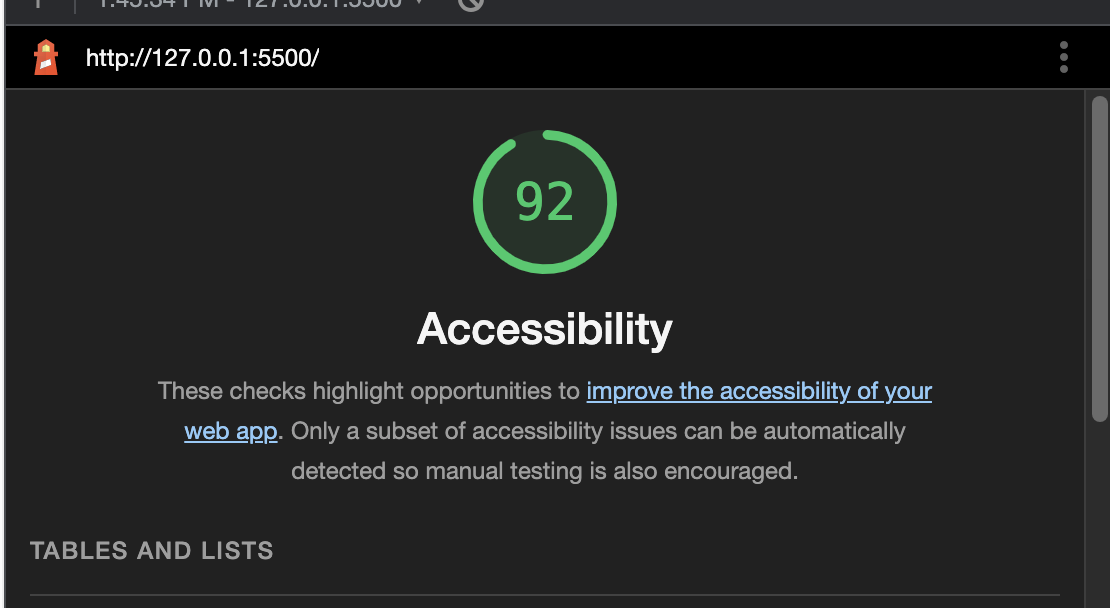
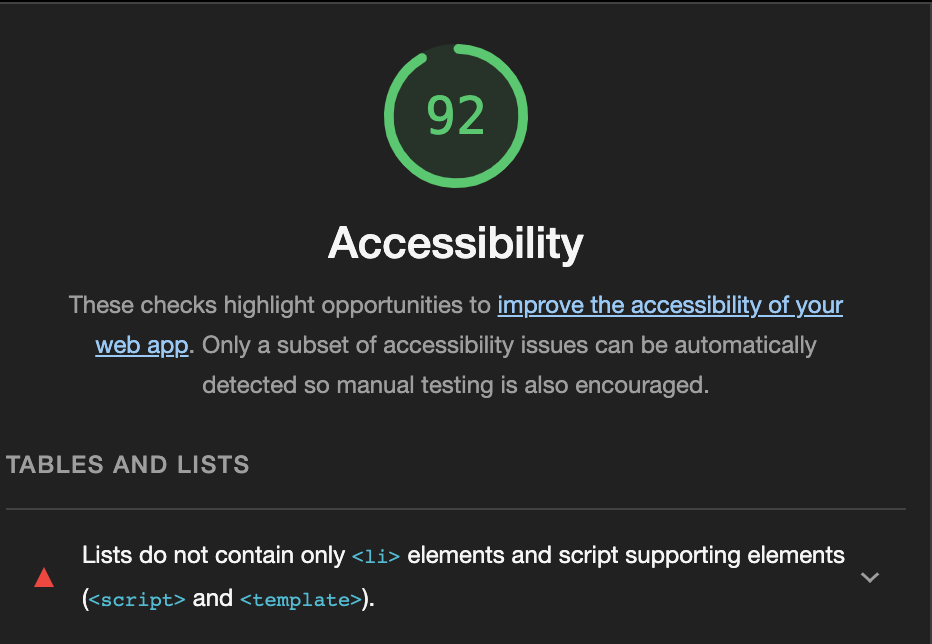
Completed lab 3

Changed region(s): [[0.0, 0.0, 1.0, 1.0]]

diff --git a/js/app.js b/js/app.js
@@ -1,5 +1,7 @@
 'use strict';
 
+let score=0;
+
 let username = prompt('What is your name?');
 console.log('name is' + username);
 alert('Hello,' + username);
@@ -8,6 +10,7 @@ let q1 = prompt('Do I live in Hawaii?').toLowerCase();
 if (q1 === 'yes' || q1 === 'y'){
   //console.log('q1 correct');
   alert("You're correct!");
+  score++;
 } else if (q1 === 'no' || q1 === 'n'){
   //console.log('q1 incorrect');
   alert('Sorry, you\'re incorrect');
@@ -17,6 +20,7 @@ let q2 = prompt('Do I like pizza?').toLowerCase();
 if (q2 === 'yes' || q2 === 'y'){
   //console.log('q2 correct');
   alert("You're correct!");
+  score++;
 } else if (q2 === 'no' || q2 === 'n'){
   //console.log('q2 incorrect');
   alert('Sorry, you\'re incorrect');
@@ -26,6 +30,7 @@ let q3 = prompt('Do I like running?').toLowerCase();
 if (q3 === 'no' || q3 === 'n'){
   //console.log('q3 correct');
   alert("You're correct!");
+  score++;
 } else if (q3 === 'yes' || q3 === 'y'){
   //console.log('q3 incorrect');
   alert('Sorry, you\'re incorrect');
@@ -35,18 +40,59 @@ let q4 = prompt('Am I 32 years old?').toLowerCase();
 if (q4 === 'yes' || q4 === 'y'){
   //console.log('q4 correct');
   alert("You're correct!");
-} else if (q4 === 'no' || q4 === 'n'){
+  score++;
+} else if (q4 === 'no' || q4 === 'n') {
   //console.log('q4 incorrect');
   alert('Sorry, you\'re incorrect');
 }
 
 let q5 = prompt('Do I play guitar?').toLowerCase();
-if (q5 === 'yes' || q5 === 'y'){
+if (q5 === 'yes' || q5 === 'y') {
   //console.log('q5 correct');
   alert("You're correct!");
-} else if (q5 === 'no' || q5 === 'n'){
+  score++;
+} else if (q5 === 'no' || q5 === 'n') {
   //console.log('q5 incorrect');
   alert('Sorry, you\'re incorrect');
 }
 
-alert("Thank you for your answers, " + username);
+for (let i = 0; i < 4; i++) {
+  let q6 = prompt('Guess a number that I am thinking of. You have four tries.');
+  let q6num = parseInt(q6);
+  if (q6num < 5) {
+    alert("Too low");
+  } else if (q6num > 5) {
+    alert("Too high");
+  } else {
+    alert("Correct!");
+    score++;
+    break;
+
+  }
+}
+
+alert('The correct answer is 5.');
+
+let brands = ['gibson', 'mcpherson', 'fender', 'd\'angelico', 'duesenburg', 'abasi', 'taylor', 'martin', 'g&l', 'carvin'];
+
+for (let i = 0; i < 6; i++) {
+  let q7 = prompt('Name one of my favorite guitar brands, you have 6 tries.').toLowerCase();
+
+  for (let i = 0; i < brands.length; i++){
+    if(brands[i] === q7){
+      q7 = true;
+    }else{
+      q7 = false;
+    }
+  }
+  if (q7 === true) {
+    alert("This is correct.");
+    score++;
+    break;
+  } else {
+    alert("wrong.");
+  }
+}
+
+alert("Thank you for your answers, " + username + ". Your score is " + score + " out of 7.");
+

diff --git a/index.html b/index.html
@@ -37,21 +37,35 @@
 
     - Guitar
     - Piano
-    - Voice (not amazing but fun and developing)
+    - Singing (guilty pleasure, not very good)
     - Math
     - Reading nonfiction
 
   </ul>
 
   <ul>
-  My philosphical interests include:
+  My philosphical/educational interests include:
 
   - Theories of historical development
   - Supervenience(s) between matter and mind
   - Ontological significance of information
-  - Embedded cognition and it's relationship to deep learning
+  - Embodied cognition and it's relationship to deep learning
   - Heiddegger's critique of being
   </ul>
+
+  <ol>
+    My Top Ten Guitar Makers:
+    1. Fender
+    2. Gibson
+    3. G&L
+    4. D'Angelico 
+    5. McPherson
+    6. Martin
+    7. Carvin
+    8. Duessenburg
+    9. Abasi
+    10. Taylor
+  </ol>
 
   <script src="js/app.js"></script>
 </body>

diff --git a/css/style.css b/css/style.css
@@ -15,3 +15,7 @@ ul{
   border: 2px solid #8696a2;
   float: left;
 }
+
+ol{
+  text-align: left; max-width: 100px;
+}
